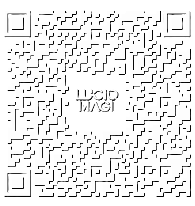
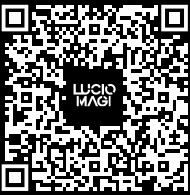
second commit

diff --git a/src/components/contact/Contact.jsx b/src/components/contact/Contact.jsx
@@ -1,53 +1,60 @@
 import React from "react";
 import "./Contact.css";
-import cvguido from "../../media/cvguido.pdf";
+import qrImage from "../../media/QR.png";
+import {
+  FaYoutube,
+  FaInstagram,
+  FaSoundcloud,
+  FaEnvelope,
+} from "react-icons/fa";
 
 const Contact = () => {
   return (
-    <contact className="contact" id="contact">
-      <h1>Mis Datos</h1>
-      <div className="contact-info">
-        <a
-          className="fas fa-address-card btn"
-          href={cvguido}
-          target="_blank"
-          rel="noopener noreferrer"
-        >
-          {" "}
-          <span className="btn-texto"> CURRICULUM VITAE</span>
-        </a>
+    <section className="contact" id="contact">
+      <div className="contact-wrapper">
+        {/* SOCIAL MEDIA */}
+        <div className="social-media-section">
+          <h2>Redes Sociales</h2>
+          <div className="social-content">
+            <div className="social-icons">
+              <a
+                href="https://www.youtube.com/@luciomagi"
+                target="_blank"
+                rel="noopener noreferrer"
+              >
+                <FaYoutube className="icon" />
+              </a>
+              <a
+                href="https://soundcloud.com/magi-set"
+                target="_blank"
+                rel="noopener noreferrer"
+              >
+                <FaSoundcloud className="icon" />
+              </a>
+              <a
+                href="https://www.instagram.com/luciomagi"
+                target="_blank"
+                rel="noopener noreferrer"
+              >
+                <FaInstagram className="icon" />
+              </a>
+            </div>
+            <img src={qrImage} alt="QR Lucio Magi" className="qr" />
+          </div>
+        </div>
 
-        <a
-          className="fas fa-solid fa-file btn"
-          href="https://refe.educacion.gob.ar/v/37566YKrMFRVA8IyAEl3x"
-          target="_blank"
-          rel="noopener noreferrer"
-        >
-          {" "}
-          <span className="btn-texto"> ReFE</span>
-        </a>
-
-        <a
-          className="fa-brands fa-linkedin btn"
-          href="https://www.linkedin.com/in/guidomagi/"
-          target="_blank"
-          rel="noopener noreferrer"
-        >
-          {" "}
-          <span className="btn-texto"> LINKEDIN</span>
-        </a>
-
-        <a
-          className="fas fa-envelope btn"
-          href="mailto:guidomagi23@gmail.com"
-          target="_blank"
-          rel="noopener noreferrer"
-        >
-          {" "}
-          <span className="btn-texto"> GMAIL</span>
-        </a>
+        {/* BOOKING CONTACT */}
+        <div className="booking-section">
+          <h2>Contacto de Reservas</h2>
+          <div className="booking-content">
+            <a href="mailto:luciiomagi@gmail.com" className="email-link">
+            <FaEnvelope className="icon email-icon"/>
+            <span className="email-text">luciiomagi@gmail.com</span>
+            </a>
+          </div>
+        </div>
       </div>
-    </contact>
+    </section>
   );
 };
 

diff --git a/src/components/contact/Contact.css b/src/components/contact/Contact.css
@@ -1,65 +1,86 @@
 .contact {
-    width: 100%;
-    height: 100%;
-    background-color: rgb(178, 9, 9);
+    background-color: black;
     color: white;
-    z-index: -2;
-    bottom: 0;
-    left: 0;
+    padding: 4rem 2rem;
 }
 
-.contact-info>a {
-    color: rgb(255, 255, 255);
-    font-size: 23px;
-    font-weight: bold;
-    text-align: center;
-
-}
-
-
-.contact-info {
-    gap: 20px;
-    display: grid;
-    grid-gap: 20px;
-    align-items: center;
+.contact-wrapper {
+    display: flex;
     justify-content: center;
-    padding: 40px;
+    align-items: flex-start;
+    gap: 4rem;
+    flex-wrap: wrap;
 }
 
-.contact>h1 {
-    color: rgb(255, 255, 255);
-    font-size: 40px;
+/* SOCIAL MEDIA */
+.social-media-section h2,
+.booking-section h2 {
     font-weight: bold;
+    font-size: 2rem;
+    margin-bottom: 1.5rem;
+    color: white;
     text-align: center;
-    padding: 20px 0 5px 0;
 }
 
-.contact-sns {
-    width: 70%;
-    position: absolute;
-    bottom: 40px;
-    left: 0;
-    right: 0;
-    margin: 0 auto;
-    display: grid;
-    grid-template-columns: 2fr 1fr;
+.social-content {
+    display: flex;
+    align-items: center;
+    gap: 2rem;
+}
+
+.social-icons {
+    display: flex;
+    flex-direction: column;
+    gap: 1.5rem;
+}
+
+.icon {
+    font-size: 3rem;
+    color: white;
+    transition: transform 0.3s ease;
+}
+
+.icon:hover {
+    transform: scale(1.2);
+    color: rgb(155, 155, 155);
+}
+
+.qr {
+    width: 180px;
+    height: auto;
+}
+
+/* BOOKING SECTION */
+.booking-section {
+    display: flex;
+    flex-direction: column;
     align-items: center;
 }
 
+.booking-content {
+    display: flex;
+    align-items: center;
+    gap: 1rem;
+}
 
-@media only screen and (max-width: 960px) {
-    .contact-info {
-        text-align: center;
-        padding: 20px 20px 20px 20px;
-        font-size: 20px;
-        width: 100%;
-        max-width: 100%;
-    }
+.email-icon {
+    font-size: 2.5rem;
+}
 
-    .contact-sns {
-        display: table;
-        padding: 0 50px 0 50px;
-        text-align: center;
-    }
+.email-text {
+    font-size: 1.2rem;
+    font-weight: 300;
+}
 
+.email-link {
+    display: flex;
+    align-items: center;
+    gap: 1rem;
+    text-decoration: none;
+    color: white;
+    transition: opacity 0.3s ease;
+}
+
+.email-link:hover {
+    opacity: 0.8;
 }

diff --git a/src/components/footer/Footer.css b/src/components/footer/Footer.css
@@ -8,51 +8,16 @@ a:active {
 .linkedin {
     background-color: #ffffff;
     color: rgb(0, 0, 0);
-    font-size: 30px;
-    padding: 5px;
+    font-size: 25px;
+    padding: 2px;
     border-radius: 30%;
     transition: 0.7s;
 }
 
-.github:hover,
-.linkedin:hover {
-    background-color: rgb(0, 0, 0);
-    border-color: rgb(0, 0, 0);
-    color: rgb(255, 255, 255);
-}
-
 .design-by {
-    font-size: 15px;
+    font-size: 12px;
     text-align: center;
-    padding: 20px 0 5px 0;
-    color: rgb(0, 0, 0);
-    background-color: #ffffff;
-}
-
-.sns-links {
-    display: flex;
-    justify-content: center;
-    align-items: center;
-    height: 100%;
-    padding: 10px 0 5px 0;
-    background-color: #ffffff;
-}
-
-.sns-links>a {
-    padding: 0 5px 0 5px;
-}
-
-.github:hover,
-.linkedin:hover {
-    background-color: rgb(0, 0, 0);
-    border-color: rgb(0, 0, 0);
-    color: rgb(255, 255, 255);
-}
-
-.design-by {
-    font-size: 15px;
-    text-align: center;
-    padding: 20px 0 5px 0;
+    padding: 5px;
     color: rgb(0, 0, 0);
     background-color: #ffffff;
 }
@@ -62,7 +27,7 @@ a:active {
     justify-content: center;
     align-items: center;
     height: 100%;
-    padding: 10px 0 5px 0;
+    padding: 0px 0 5px 0;
     background-color: #ffffff;
 }
 
@@ -76,8 +41,7 @@ a:active {
 .fas:hover,
 .fa-brands:hover,
 .fa-linkedin:hover {
-    background-color: #ffffff;
-    color: rgb(0, 0, 0);
+    color:rgb(155, 155, 155);
 }
 
 @media only screen and (max-width: 960px) {

diff --git a/src/components/navbar/Navbar.jsx b/src/components/navbar/Navbar.jsx
@@ -23,15 +23,15 @@ const Navbar = ({ isScrolling }) => {
   return (
     <nav className={`navbar ${isScrolling > 20 ? "scrolling" : ""}`}>
       <div className='navbar-logo' onClick={toTheTop}>
-        <i className="fab fa-solid fa-user user"> GM</i>
+        <i className="fab fa-solid fa-user user"> LM</i>
       </div>
       <div className="navbar-toggle" onClick={toggleMenu}>
         &#9776;
       </div>
       <ul className={`navbar-menu ${isMenuOpen ? "active" : ""}`}>
         <li onClick={() => scrollToSection('about')}>Acerca de</li>
-        <li onClick={() => scrollToSection('projects')}>Mis proyectos</li>
-        <li onClick={() => scrollToSection('contact')}>Mis datos</li>
+        <li onClick={() => scrollToSection('projects')}>Lanzamientos</li>
+        <li onClick={() => scrollToSection('contact')}>Contacto</li>
       </ul>
     </nav>
   );

diff --git a/src/App.js b/src/App.js
@@ -4,7 +4,6 @@ import Cover from "./components/cover/Cover";
 import Navbar from './components/navbar/Navbar';
 import About from './components/about/About';
 import Slider from './components/slider/Slider';
-import Info from './components/info/Info';
 import Footer from './components/footer/Footer';
 import Contact from './components/contact/Contact';
 
@@ -26,7 +25,6 @@ function App() {
       <Cover />
       <About />
       <Slider />
-      <Info />
       <Contact />
       <Footer />
     </div>

diff --git a/src/components/cover/Cover.css b/src/components/cover/Cover.css
@@ -37,22 +37,21 @@
         
 }
 
-.social-icons {
+.social-icons-cover {
     margin-top: 20px;
     display: flex;
     gap: 20px;
 }
 
-.social-icons a {
+.social-icons-cover a {
     color: white;
     font-size: 30px;
     transition: transform 0.3s ease, color 0.3s ease;
 }
 
-.social-icons a:hover {
+.social-icons-cover a:hover {
     transform: scale(1.2);
     color: #535353;
-    /* podés personalizar el color hover */
 }
 
 @media only screen and (max-width: 960px) {

diff --git a/public/index.html b/public/index.html
@@ -20,7 +20,7 @@
   <link
     href="https://fonts.googleapis.com/css2?family=Cinzel:wght@500&family=Oswald&family=PT+Sans+Narrow&family=Prata&family=Roboto&family=Spectral&display=swap"
     rel="stylesheet">
-  <title>Mi Portfolio</title>
+  <title>Lucio Magi</title>
 </head>
 <link rel="preconnect" href="https://fonts.googleapis.com">
 <link rel="preconnect" href="https://fonts.gstatic.com" crossorigin>

diff --git a/src/components/cover/Cover.jsx b/src/components/cover/Cover.jsx
@@ -17,7 +17,7 @@ const Cover = () => {
       <video className="video" src={coverVideo} autoPlay loop muted />
       <h1>LUCIO MAGI</h1>
       <h2>Dj | Productor</h2>
-      <div className="social-icons">
+      <div className="social-icons-cover">
         <a
           href="https://soundcloud.com/magi-set"
           target="_blank"
